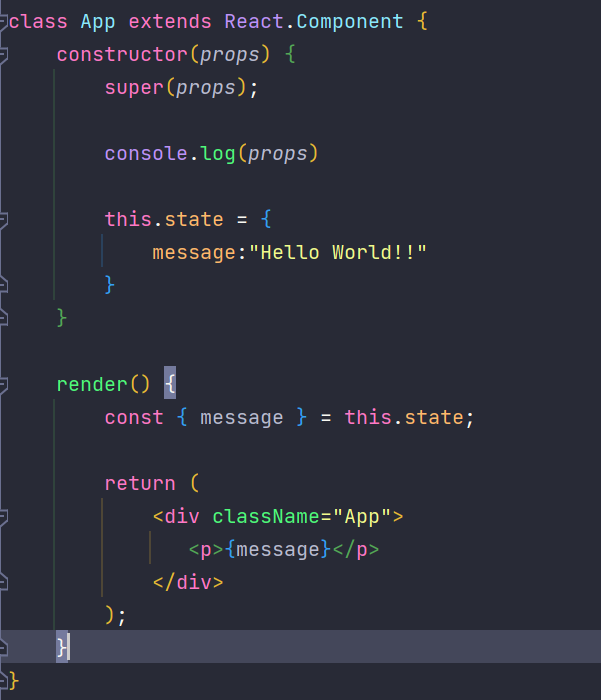
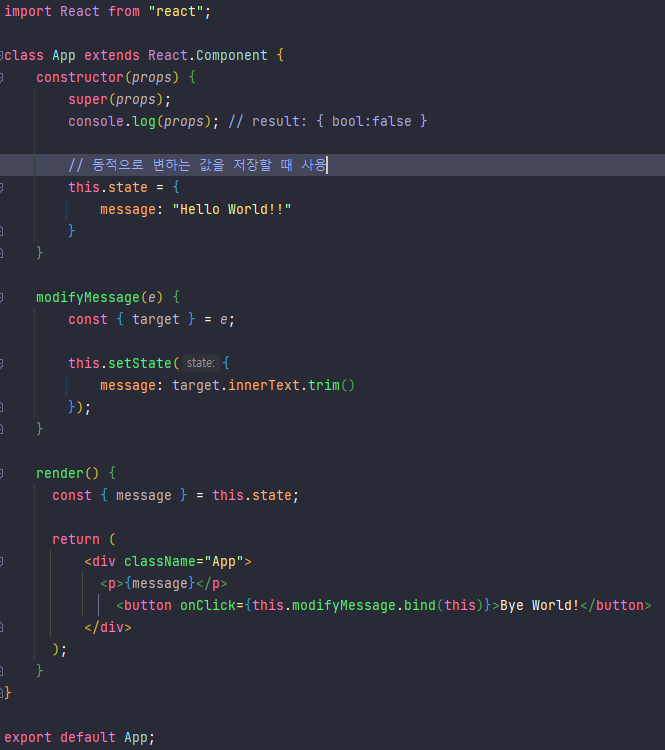
update 2주차

diff --git a/세미나 발표/2주차/intellij.md b/세미나 발표/2주차/intellij.md
@@ -28,7 +28,7 @@ backgroundColor:#fff
 | Commit Message Template | github 연동해서 사용할 때, Commit Message를 템플릿처럼 지정하고 가져와서 사용할 수 있다. |
 | Lombok | 자바에서 보일러플레이트 코드(Getter, Setter, toString) 등 불필요하게 반복적인 요소 간편하게 어노테이션으로 설정이 가능한 라이브러리 
 
-> https://excited-boot-af8.notion.site/Intellij-a97f96656f9e4958bd63544d6099669e
+> [정리 페이지](https://excited-boot-af8.notion.site/Intellij-a97f96656f9e4958bd63544d6099669e)
 
 ---
 
@@ -41,5 +41,31 @@ backgroundColor:#fff
 # 단축키
 
 | 단축키 이름 | 단축키 설명 |
-| --- | --- |
-| Move Line Up or Down | 커서 있는 라인 아래 또는 위로 이동
+|:------------:|:-------------------:| 
+| Alt + 1 | 폴더목록창 열기  |
+| Alt + 0 | 커밋창 열기 |
+| Alt + f12 | 터미널 |
+| Alt + 위 or 아래 | 함수 or 메서드 왔다갔다 |
+| Alt + shift + 위아래 | 한 줄 코드 위 or 아래 이동 |
+| Shift + Home or End | 커서 기준으로 전체 선택 |
+| Ctrl + 좌우 | 부분적인 코드 선택 |
+
+---
+
+| 단축키 이름 | 단축키 설명 |
+|:------------:|:-------------------:| 
+| Ctrl + d | 코드 복사 |
+| Ctrl + n | 생성관련 작업을 원할 때 |
+| Ctrl + shift + t | 테스트, 본코드 왔다갔다 |
+| Ctrl + shift + - | 전체 접기 |
+| Ctrl + shift + + | 전체 접기 풀기 |
+
+---
+
+## Ctrl + W 탭 닫기 설정
+
+Shift * 2 -> keymap 입력 후 Enter -> "Close Tab" 검색 -> 아래 첫번째 사진 부분 더블 클릭
+
+![close_tab_1](./images/closeTab_1.png)
+![close_tab_2](./images/closeTab_2.png)
+![close_tab_3](./images/closeTab_3.png)

diff --git a/세미나 발표/2주차/description.md b/세미나 발표/2주차/description.md
@@ -9,7 +9,7 @@ theme: my-theme
 
 
 
-# 리액트 컴포넌트 생명주기
+# :pencil2: 리액트 기본 사용법
 
 ###### 기술연구소 윤장혁
 
@@ -22,7 +22,6 @@ theme: my-theme
    2. 객체, 배열 구조 분해 할당이란
 2. 리액트 기본 사용법
    1. 작성법
-   2. event 처리
 
 ---
 
@@ -117,21 +116,28 @@ const { apple, banana, orange } = word_object;
 console.log(apple, banana, orange); // result: "Apple", "Banana", ["BlackOrange", "RedOrange"] 
 ```
 
+<br />
+<br />
+
+>  - javascript에서의 객체(object)는 0개 이상의 요소(property)로 구성된 집합.
+>  - 요소(property)는 키(key)와 값(value)로 구성되어있다.
+
 ---
 
-# 리액트 기본 사용법
+# 3. 리액트 기본 사용법
 
 ![contain vertical](./images/indexJs_1.png)
 
-![bg right bottom](./images/appJs_1.png)
+![bg right contain](./images/appJs_1.png)
 
 ---
 
-![result_1](./images/result_1.png)
+ - 클릭 전
+![result_1](./images/result_1_before.png)
+
+ - 클릭 후
+![result_1](./images/result_1_after.png)
 
 ---
 
-## State
-
----
-
+# 감사합니다.
